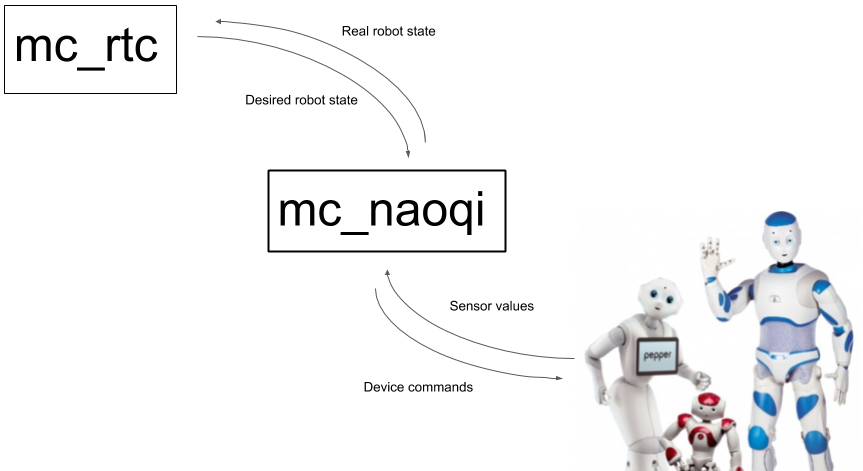
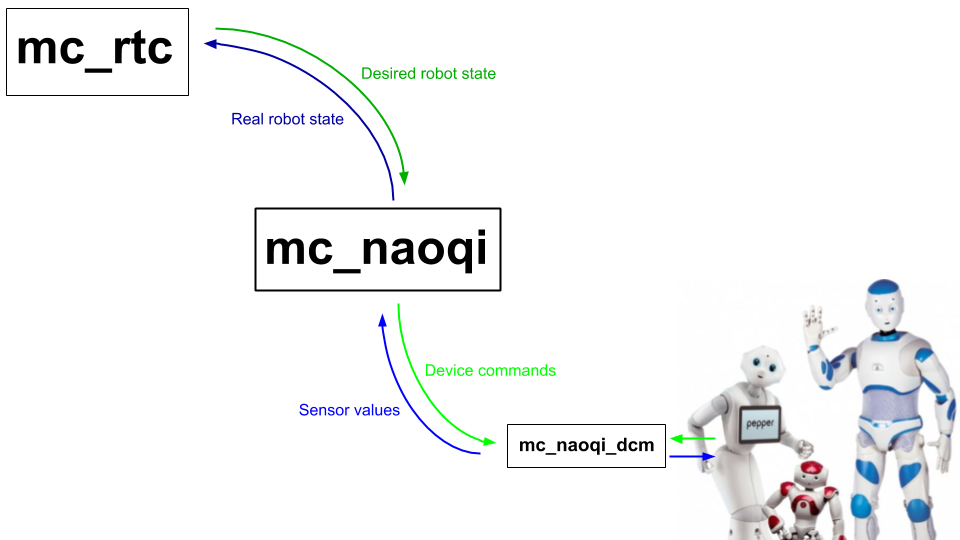
Adapted to renaming of DCM module

Changed region(s): [[0.2109, 0.0297, 1.0, 1.0], [0.0, 0.0, 0.2109, 0.1783], [0.3917, 0.0594, 0.5122, 0.0892]]

diff --git a/README.md b/README.md
@@ -22,7 +22,7 @@ Then compile `mc_naoqi`.
 ## On the robot
 
 Communication with the robot sensors and actuators is managed using the embedded [DCM](http://doc.aldebaran.com/2-1/naoqi/sensors/dcm.html) module on the robot.
-To access its features, [naoqi_fastgetsetdcm](https://gite.lirmm.fr/softbankrobotics/naoqi_fastgetsetdcm) needs to be installed and run on the robot.
+To access its features, [mc_naoqi_dcm](https://gite.lirmm.fr/softbankrobotics/mc_naoqi_dcm) needs to be installed and run on the robot.
 
 # Usage
 
